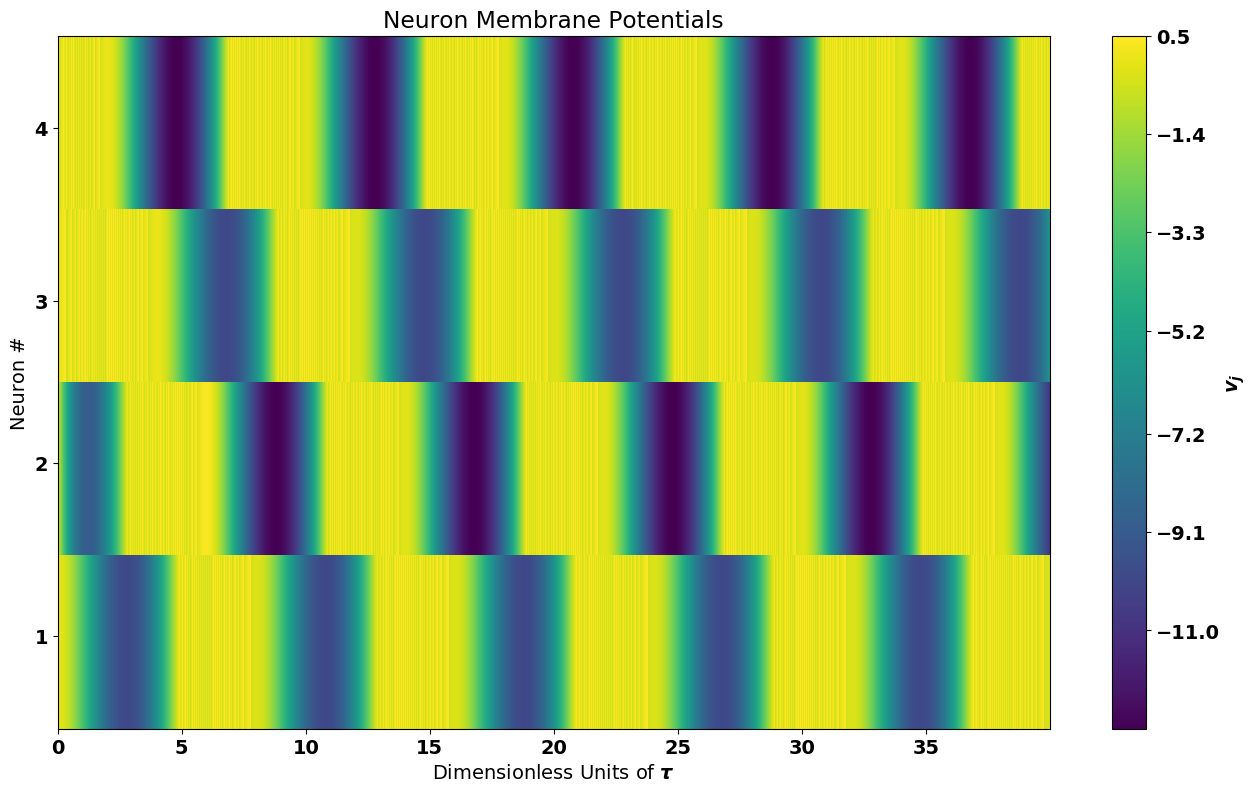
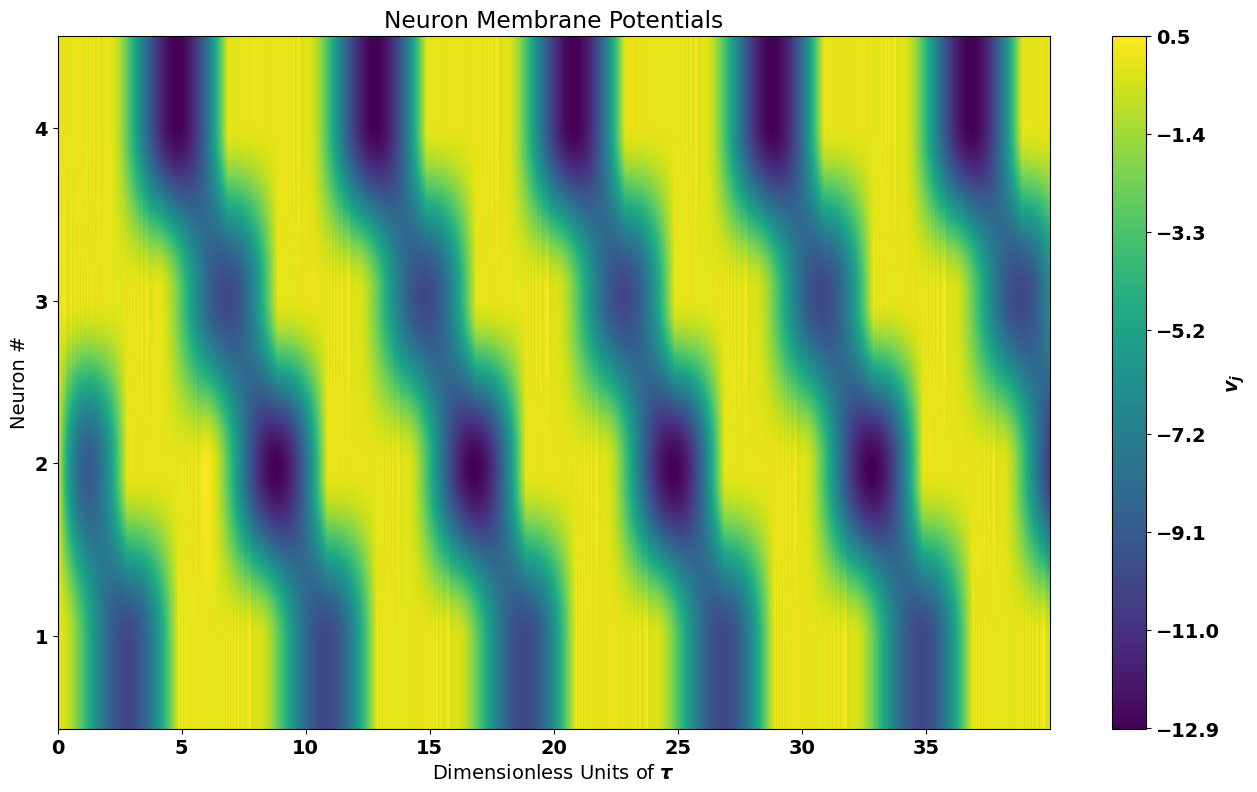
fixed bug in spike rasters for self-coupled net - now working

diff --git a/HSF/network_sim_comparisons.py b/HSF/network_sim_comparisons.py
@@ -15,7 +15,7 @@ plt.rcParams['font.weight'] = 'bold'
 
 # Simulate Classic Deneve Net 
 plt.close()
-def run_sim(N, p=1):
+def run_sim(N, p=1, k = 10):
 
     A =  - np.eye(2)
 
@@ -24,17 +24,19 @@ def run_sim(N, p=1):
     lam =  1
     mode = '2d cosine'
 
-    D = gen_decoder(A.shape[0], N, mode=mode)
+    D = gen_decoder(A.shape[0], N, mode=mode) 
+    D = np.eye(N)[0:D.shape[0],:]
     B = np.eye(2)
     u0 = D[:,0]
     x0 = np.asarray([.5, .5])
     T = 40
-    dt = 1e-5
+    dt = 1e-3
 
     lam_v = 1
 
+    _, uA = np.linalg.eig(A)
 
-    sin_func = lambda t :  10 * np.asarray([np.cos( (1/4) * np.pi*t), np.sin( (1/4) * np.pi*t)])
+    sin_func = lambda t :  k * uA[:,0]#* np.asarray([np.cos( (1/4) * np.pi*t), np.sin( (1/4) * np.pi*t)])
 
     lds = sat.LinearDynamicalSystem(x0, A, B, u = sin_func , T = T, dt = dt)
 
@@ -55,7 +57,78 @@ def run_sim(N, p=1):
 #gj_data, classic_data, sc_data = run_sim(10, 4)
 lam = 1
 N = 4
-sc_data = run_sim(N, 1)
+#sc_data = run_sim(N, 1)
+
+
+def phi(c):
+    bot = -np.log(  1 - (.5 / c) )
+    return 1/bot
+
+
+
+
+ks = np.logspace(-1,1,num= 3 )
+##plt.figure()
+##plt.ylabel('phik')
+##plt.loglog(ks, phi(ks))
+##plt.xlabel('k')
+##plt.show()
+
+
+def rmse_t(xhat, xtru, ts):
+    #xhat = xhat.flatten()
+    #xtru = xtru.flatten()
+    e = (xhat - xtru) 
+    T = ts[-1] - ts[0]
+    
+    sque = np.square(e)
+    mse = np.sum(sque)  * 1e-3 / T
+    
+    
+    return np.sqrt(mse)
+
+
+
+isis = []
+rmses = []
+rates = []
+for i, k in enumerate(ks):
+    # run sim
+    sc_data = run_sim(N, 1, k = k)
+    data_len = len(sc_data['x_hat'][0,:])
+    
+##    plt.figure()
+##    plt.plot(sc_data['t'],sc_data['x_hat'][0,:],label='dim0')
+##    plt.plot(sc_data['t'],sc_data['x_hat'][1,:],label='dim1')
+##    plt.plot(sc_data['t'],sc_data['x_true'][0,:],'k',label='dim0')
+##    plt.plot(sc_data['t'],sc_data['x_true'][1,:],'r',label='dim1')
+##    plt.legend()
+##    plt.show()
+    print(sc_data['O'][0,:])
+    if i > 1:
+        assert(False)
+    rates.append(sc_data['spike_nums'][0] / (sc_data['t'][-1] - sc_data['t'][0]) )
+    rmses.append( rmse_t(sc_data['x_hat'][0,data_len // 2:], sc_data['x_true'][0,data_len // 2:], sc_data['t'][data_len // 2:] ))
+    
+
+
+
+    
+rmses = np.asarray(rmses)
+rates = np.asarray(rates)
+
+plt.figure()
+#plt.loglog(1 / phi(ks),rmses)
+plt.plot(ks, phi(ks))
+plt.plot(ks, rates, 'x')
+                 
+plt.show()
+
+
+
+
+
+
 # num_trials = 10
 # ps = np.linspace(0, 1,num=10, endpoint=True)
 # rmses = np.zeros((num_trials, len(ps)))
@@ -106,56 +179,56 @@ sc_data = run_sim(N, 1)
 # plt.savefig('membrane_potential_plot.png',bbox_inches='tight')
 #  
 #  
-plt.figure(figsize=(16,9))
-
-cbar_ticks = np.round(np.linspace( start = np.min(sc_data['V']), stop = .5,  num = 8, endpoint = True), decimals=1)
-
-plt.imshow(sc_data['V'],extent=[0,sc_data['t'][-1], 0,3],vmax=.5, vmin=np.min(sc_data['V']))
-plt.xlabel(r"Dimensionless Units of $\tau$")
-plt.axis('auto')
-cbar = plt.colorbar(ticks=cbar_ticks)
-cbar.set_label('$v_j$')
-
-plt.title('Neuron Membrane Potentials')
-plt.ylabel('Neuron #')
-plt.yticks([.4,1.15,1.85,2.6], labels=[1, 2, 3, 4])
-plt.savefig('membrane_potential_image.png',bbox_inches='tight')
- 
- 
-  
- 
-plot_step = 10
-
-
-
-
-#PLOT NETWORK DECODE, 2 DIMENSIONS ON ONE PLOT
-plt.figure(figsize=(16,9))
-plt.plot(sc_data['t'][0:-1:plot_step], sc_data['x_hat'][0,0:-1:plot_step],c='r',label='Decoded Network Estimate (Dimension 0)' )
-plt.plot(sc_data['t'][0:-1:plot_step], sc_data['x_hat'][1,0:-1:plot_step],c='g',label='Decoded Network Estimate (Dimension 1)' )
-
-plt.plot(sc_data['t_true'][0:-1:plot_step], sc_data['x_true'][0,0:-1:plot_step],c='k')
-plt.plot(sc_data['t_true'][0:-1:plot_step], sc_data['x_true'][1,0:-1:plot_step],c='k',label='True Dynamical System')
-
-plt.title('Network Decode')
-plt.legend()
-plt.ylim([-8, 8])
-plt.xlabel(r'Dimensionless Time $\tau_s$')
-plt.ylabel('Decoded State')
-plt.savefig('network_decode.png',bbox_inches='tight')
-
-#PLOT DECODE ERROR 2 DIMENSIOENS ON ONE PLOT
-plt.figure(figsize=(16,9))
-plt.plot(sc_data['t'][0:-1:plot_step], sc_data['x_hat'][0,0:-1:plot_step] - sc_data['x_true'][0,0:-1:plot_step],c='r',label='Estimation Error (Dimension 0)' )
-plt.plot(sc_data['t'][0:-1:plot_step], sc_data['x_hat'][1,0:-1:plot_step] - sc_data['x_true'][1,0:-1:plot_step],c='g',label='Estimation Error (Dimension 1)' )
-
-
-plt.title('Decode Error')
-plt.legend()
-plt.ylim([-8, 8])
-plt.xlabel(r'Dimensionless Time $\tau_s$')
-plt.ylabel('Decode Error')
-plt.savefig('decode_error.png',bbox_inches='tight')
+##plt.figure(figsize=(16,9))
+##
+##cbar_ticks = np.round(np.linspace( start = np.min(sc_data['V']), stop = .5,  num = 8, endpoint = True), decimals=1)
+##
+##plt.imshow(sc_data['V'],extent=[0,sc_data['t'][-1], 0,3],vmax=.5, vmin=np.min(sc_data['V']))
+##plt.xlabel(r"Dimensionless Units of $\tau$")
+##plt.axis('auto')
+##cbar = plt.colorbar(ticks=cbar_ticks)
+##cbar.set_label('$v_j$')
+##
+##plt.title('Neuron Membrane Potentials')
+##plt.ylabel('Neuron #')
+##plt.yticks([.4,1.15,1.85,2.6], labels=[1, 2, 3, 4])
+##plt.savefig('membrane_potential_image.png',bbox_inches='tight')
+## 
+## 
+##  
+## 
+##plot_step = 10
+##
+##
+##
+##
+###PLOT NETWORK DECODE, 2 DIMENSIONS ON ONE PLOT
+##plt.figure(figsize=(16,9))
+##plt.plot(sc_data['t'][0:-1:plot_step], sc_data['x_hat'][0,0:-1:plot_step],c='r',label='Decoded Network Estimate (Dimension 0)' )
+##plt.plot(sc_data['t'][0:-1:plot_step], sc_data['x_hat'][1,0:-1:plot_step],c='g',label='Decoded Network Estimate (Dimension 1)' )
+##
+##plt.plot(sc_data['t_true'][0:-1:plot_step], sc_data['x_true'][0,0:-1:plot_step],c='k')
+##plt.plot(sc_data['t_true'][0:-1:plot_step], sc_data['x_true'][1,0:-1:plot_step],c='k',label='True Dynamical System')
+##
+##plt.title('Network Decode')
+##plt.legend()
+##plt.ylim([-8, 8])
+##plt.xlabel(r'Dimensionless Time $\tau_s$')
+##plt.ylabel('Decoded State')
+##plt.savefig('network_decode.png',bbox_inches='tight')
+##
+###PLOT DECODE ERROR 2 DIMENSIOENS ON ONE PLOT
+##plt.figure(figsize=(16,9))
+##plt.plot(sc_data['t'][0:-1:plot_step], sc_data['x_hat'][0,0:-1:plot_step] - sc_data['x_true'][0,0:-1:plot_step],c='r',label='Estimation Error (Dimension 0)' )
+##plt.plot(sc_data['t'][0:-1:plot_step], sc_data['x_hat'][1,0:-1:plot_step] - sc_data['x_true'][1,0:-1:plot_step],c='g',label='Estimation Error (Dimension 1)' )
+##
+##
+##plt.title('Decode Error')
+##plt.legend()
+##plt.ylim([-8, 8])
+##plt.xlabel(r'Dimensionless Time $\tau_s$')
+##plt.ylabel('Decode Error')
+##plt.savefig('decode_error.png',bbox_inches='tight')
 
 #PLOT MEMBRANE POTENTIAL IMAGE OF 4 NEURONS W/ FIXED LABELS
 

diff --git a/HSF/HSFNets.py b/HSF/HSFNets.py
@@ -148,8 +148,10 @@ class GapJunctionDeneveNet(SpikingNeuralNet):
         self.Mv = D.T @ lds.A @ np.linalg.pinv(D.T)
         self.Mr = D.T @ (lds.A + lam * np.eye(lds.A.shape[0])) @ D
         self.Mo = - D.T @ D
-        self.Mc = D.T @ lds.B    
-        self.O = np.asarray([[] for i in np.arange(N)])
+        self.Mc = D.T @ lds.B
+        self.max_spikes = int(1e4)       
+        self.O = np.zeros((N, self.max_spikes)) #pre allocate space for spike rasters - needed for use in Numba implementation
+        self.spike_nums = np.zeros((self.N,), dtype = np.int)
         self.vth = np.asarray(
             [ D[:,i].T @ D[:,i] for i in np.arange(N)],
             dtype = np.double
@@ -342,15 +344,18 @@ class SelfCoupledNet(GapJunctionDeneveNet):
         process data and call c_solver library to quickly run sims
         '''
         @jit(nopython=True)     
-        def fast_sim(dt, vth, num_pts, t, V, r, O, U,  Mo, Mc, A_exp, spike_trans_prob, dimensionless):
+        def fast_sim(dt, vth, num_pts, t, V, r, O, U,  Mo, Mc, A_exp, spike_trans_prob, dimensionless, spike_nums):
             '''run the sim quickly using numba just-in-time compilation'''
             N = V.shape[0]
+            max_spikes = len(O[0,:])
+            
+            
             for count in np.arange(num_pts-1):
                 pct =  (count+1) / num_pts
                 pct *= 100 
                 if (pct // 1) == 0: 
                     print( pct * 100, r'%')                #get if max voltage above thresh then spike
-
+                    
 
 
                 if dimensionless:
@@ -371,8 +376,15 @@ class SelfCoupledNet(GapJunctionDeneveNet):
                             if spike_trans_prob >= sample:
                                 r[idx,count] += area
                             
+                        spike_num = spike_nums[idx]
+                        if spike_num >= max_spikes:
+                            print("Maximum Number of Spikes Exceeded in Simulation  for neuron ",
+                                   idx,
+                                   " having ", spike_num, " spikes with spike limit ", max_spikes)
+                            assert(False)
                             
-                        O[idx] = np.append(O[idx], t[-1])
+                        O[idx,spike_num] = t[count]
+                        spike_nums[idx] += 1
                     
 
 
@@ -398,6 +410,7 @@ class SelfCoupledNet(GapJunctionDeneveNet):
         V = self.V
         r = self.r
         O = self.O
+        spike_nums = self.spike_nums
         Mv = self.Mv
         Mo = self.Mo
         Mr = self.Mr
@@ -420,9 +433,9 @@ class SelfCoupledNet(GapJunctionDeneveNet):
         A_exp = np.vstack((top, bot)) #matrix exponential for linear part of eq
         A_exp = expm(A_exp*dt)
         
-        fast_sim(dt, vth, num_pts, t, V, r, O, U,  Mo,  Mc,  A_exp, spike_trans_prob, dimensionless)
+        fast_sim(dt, vth, num_pts, t, V, r, O, U,  Mo,  Mc,  A_exp, spike_trans_prob, dimensionless, spike_nums)
                  
-        
+        print(spike_nums)
 
         if not self.suppress_console_output:
             print('Simulation Complete.')
